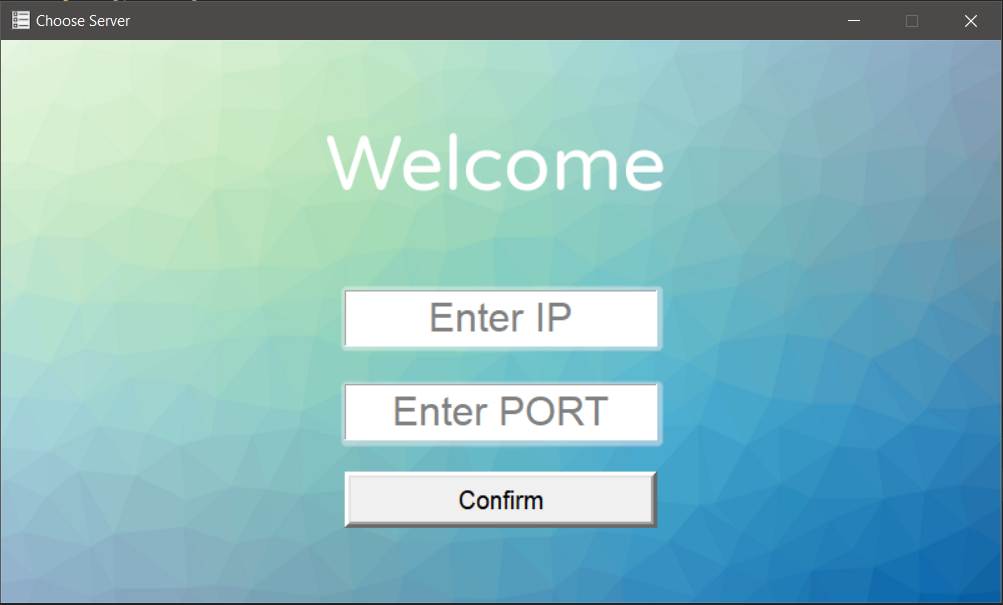
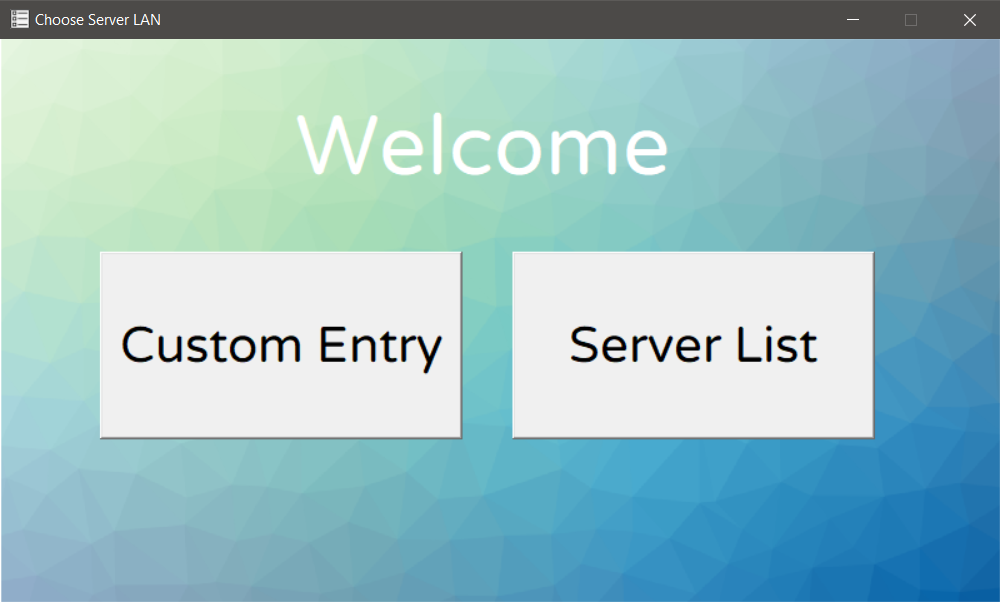
Add files via upload

diff --git a/documentation/Usage.html b/documentation/Usage.html
@@ -99,8 +99,8 @@
           <h3 style="text-align: center;">
             <span style="font-weight: 700;">Connecting to a server</span>
           </h3>
-          <p style="text-align: center;">To connect to Dan's server, leave both fields empty and press Confirm.</p>
-          <p style="text-align: center;">To connect to a different server, enter the IP and PORT that the server is open on. Please keep in mind that the client.py provided is only compatible with Dan's server.</p>
+          <p style="text-align: center;">To connect to a supported server, press Server List.</p>
+          <p style="text-align: center;">To connect to an unsupported server, press Custom Entry. Please keep in mind that any server not supported by the API is most likely not compatible with the client provided.</p>
         </div>
         <img src="images/welcome.png" alt="" class="u-image u-image-default u-image-1" data-image-width="1000" data-image-height="603">
       </div>
@@ -208,15 +208,23 @@
               </p>
             </div>
           </div>
-        </div>
-        <div class="u-expanded-width u-list u-repeater u-list-2">
           <div class="u-container-style u-list-item u-repeater-item">
             <div class="u-container-layout u-similar-container u-container-layout-4">
-              <img alt="" class="u-expanded-width u-image u-image-default u-image-4" src="images/gayHackerMan.png">
+              <img alt="" class="u-expanded-width u-image u-image-default u-image-4" src="images/login.png">
               <h3 class="u-text u-text-8">login</h3>
               <div class="u-border-1 u-border-grey-dark-1 u-expanded-width u-line u-line-horizontal u-line-4"></div>
               <p class="u-text u-text-9">Syntax: /login &lt;password&gt;<br>
                 <br>If you know the correct password, you can log in as an admin, and gain permission to some more commands!
+              </p>
+            </div>
+          </div>
+          <div class="u-container-style u-list-item u-repeater-item">
+            <div class="u-container-layout u-similar-container u-container-layout-4">
+              <img alt="" class="u-expanded-width u-image u-image-default u-image-4" src="images/logout.png">
+              <h3 class="u-text u-text-8">logout</h3>
+              <div class="u-border-1 u-border-grey-dark-1 u-expanded-width u-line u-line-horizontal u-line-4"></div>
+              <p class="u-text u-text-9">Syntax: /logout<br>
+                <br>That's it. You log out of admin mode.
               </p>
             </div>
           </div>
@@ -240,11 +248,30 @@
               </p>
             </div>
           </div>
+          <div class="u-container-style u-list-item u-repeater-item">
+            <div class="u-container-layout u-similar-container u-container-layout-4">
+              <img alt="" class="u-expanded-width u-image u-image-default u-image-4" src="images/rainbow.png">
+              <h3 class="u-text u-text-8">color</h3>
+              <div class="u-border-1 u-border-grey-dark-1 u-expanded-width u-line u-line-horizontal u-line-4"></div>
+              <p class="u-text u-text-9">Syntax: /color &lt;hex color&gt; &lt;message&gt;<br>
+                <br>Change the background color of your message. Taste the rainbow!
+              </p>
+            </div>
+          </div>
+          <div class="u-container-style u-list-item u-repeater-item">
+            <div class="u-container-layout u-similar-container u-container-layout-4">
+              <img alt="" class="u-expanded-width u-image u-image-default u-image-4" src="images/purge.png">
+              <h3 class="u-text u-text-8">purge</h3>
+              <div class="u-border-1 u-border-grey-dark-1 u-expanded-width u-line u-line-horizontal u-line-4"></div>
+              <p class="u-text u-text-9">Syntax: /purge &lt;amount of messages&gt;<br>
+                <br>Delete the last X messages. (User-Side only)
+              </p>
+            </div>
+          </div>
         </div>
-        <h2 class="u-text u-text-14"><b>Admin Commands</b>
-        </h2>
       </div>
     </section>
+    <br><br><br>
     <section class="u-align-center u-clearfix u-section-3" id="sec-5a60">
       <div class="u-clearfix u-sheet u-sheet-1">
         <h2 class="u-text u-text-1">Features</h2>
